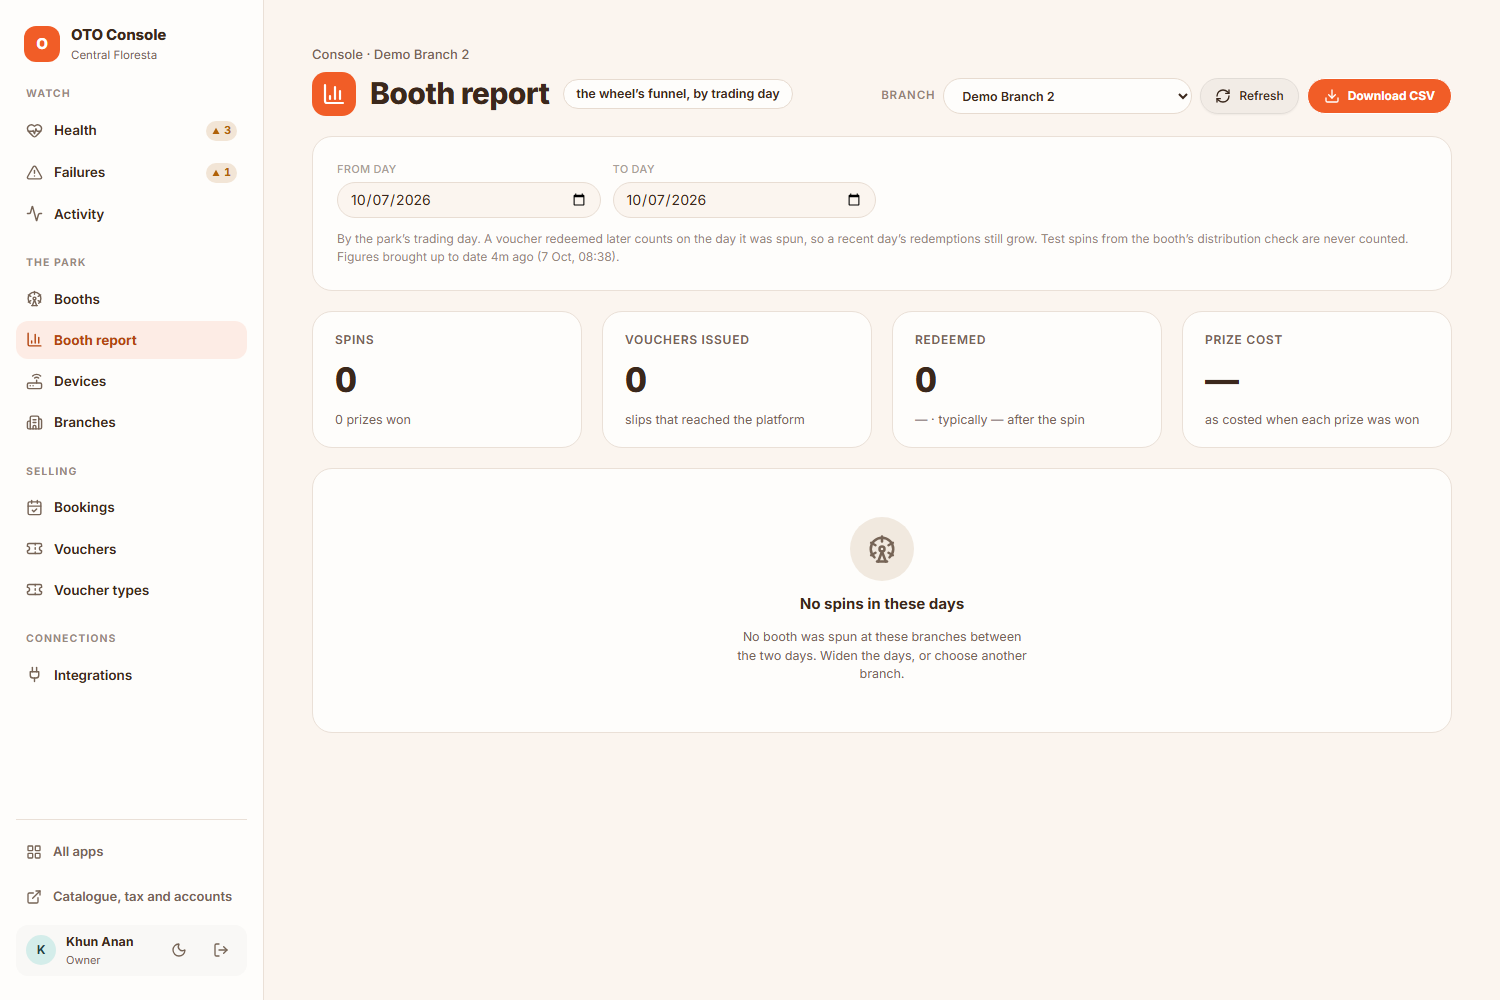
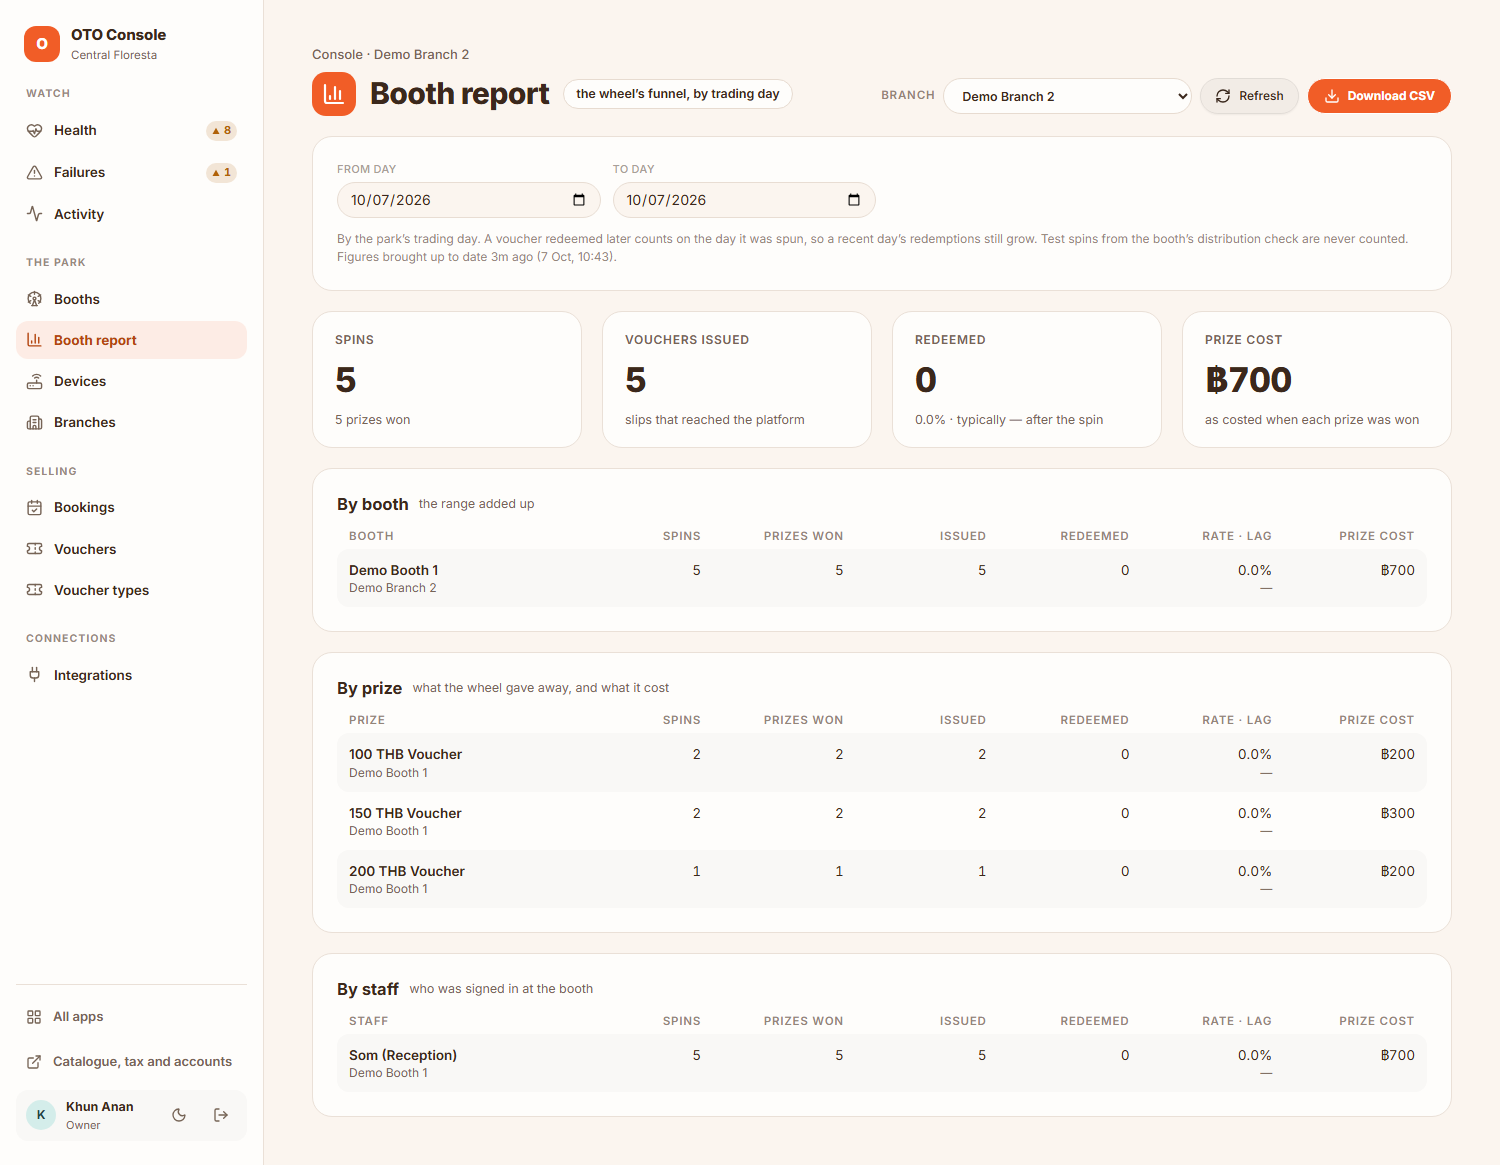
docs(qa): analytics walkthrough retakes after the demo-seed fix
- the tax list shows all ten receipts, the Discounts page counts the
  staff discount beside the masked voucher, and the booth report
  carries the demo booth's five spins with prize cost; the re-press
  result line proves convergence; two read-back cards added
- all frames passed a second independent image check

Refs: SCRUM-216

diff --git a/docs/qa/jira-comments/attachments/SCRUM-216/NOTES.md b/docs/qa/jira-comments/attachments/SCRUM-216/NOTES.md
@@ -123,3 +123,88 @@ audited (not checked in the audit log).
 - The Performance phone shot covers the top of the page only (the page scrolls
   inside itself).
 - Radar and the OTO App were not opened.
+
+## Retakes after the demo-seed fix (main db2e89ff)
+
+Captured 7 Oct 2026, about 10:41 to 10:50 Bangkok time (file times 10:43 to
+10:48), on the five platform staging services, which `render.mjs status` read
+back as live on `db2e89ff` (the OTO App service runs its own build, `547532f2`).
+Same driver as above: the seeded platform admin (Khun Anan, Owner), signed in
+from the repo seed; no secret printed or stored. Demo Branch 2 and demo data
+only. Nothing was created, so no "ZZ TEST" name was needed. FWBooth1, payment
+run 0d008153, the package "Native payment adult ticket 0d008153" and the OTO App
+check-ins were not selected or written; no branch's reporting source was
+switched. All report filters are as in the originals: Demo Branch 2, 10/07/2026
+to 10/07/2026. Nothing was committed and Jira was not touched.
+
+Order of events: (1) on Console > Health, "Add demo sales to Demo Branch 2
+(today)" pressed once; (2) "Run the analytics rollup now" pressed once and the
+page reloaded (the page said "The analytics rollup ran (daily ok, hourly ok,
+booth ok)." - read from page text, not in an image; the reloaded Analytics
+rollup card listed nine lines, each "last rolled up 7 Oct, 10:43 - trading day
+2026-10-07" - text read-back, not pictured); (3) the POS and Console shots below.
+
+| File | What the viewer literally sees | What was done to produce it |
+|---|---|---|
+| `SCRUM-216-staging-10-health-repress.png` (NEW) | Console Health, bottom of the page. At the top, a sliver of one line, "FortuneWheelBox (booth-1)" (read as the box line of the booth above Booth 2 in the list, which shot 1 names as FWBooth1; that inference is from the list order, the card itself is out of frame). Then the full cards for "Booth 2 (proof) (B2)", "Booth 3 (fixes) (B3)" and "FortuneWheelBooth (FW)", then the Test controls card with its button rows and, under the buttons, the result line "Demo day 2026-10-07 at Demo Branch 2: 0 sales added, 11 already present (1 manual discount row added to them); booth: 5 spins added, 0 already present. Existing records and closed-day totals were kept." The sidebar reads "Central Floresta" under OTO Console. The Booths list above the card is just part of the page; nothing in it was opened. | Pressed "Add demo sales to Demo Branch 2 (today)" once and photographed the page when the line appeared. The line says "0 sales added, 11 already present", so the 11 sales from the first press were kept and not duplicated; the new work was the manual discount row and the five booth spins. |
+| `SCRUM-216-staging-7-reports-tax-vat-receipts.png` (REPLACED, 1500x1128) | POS admin Tax & VAT, From 10/07/2026 To 10/07/2026, Branch Demo Branch 2. "VAT summary - ฿511.32 tax on ฿7,816.00 gross": Tickets net ฿7,428.66, incl. tax ฿485.99; Add-ons ฿387.34, incl. tax ฿25.33. "Bulk tax-receipt export (10 transactions)" with all ten rows visible, ticket/D2-000010 at the top to ticket/D2-000001 at the bottom, and the card's lower edge in view. Operator Som (Reception) on every row. Payment / Subtotal / Tax / Total per row: 000010 Promptpay 690.00 / 45.14 / 690.00; 000009 Card 450.00 / 29.44 / 450.00; 000008 Cash 450.00 / 22.90 / 350.00; 000007 Wallet Credit 80.00 / 5.23 / 80.00; 000006 Card 1,250.00 / 81.78 / 1,250.00; 000005 Split 1,896.00 / 117.49 / 1,796.00; 000004 Cash 450.00 / 29.44 / 450.00; 000003 Promptpay 1,380.00 / 90.28 / 1,380.00; 000002 Card 470.00 / 30.74 / 470.00; 000001 Cash 900.00 / 58.88 / 900.00. | Window made 1500x2600 so nothing clips, opened `/admin?panel=reports-tax`, set the three filters, cropped the picture to the bottom of the page content. One frame was enough, so no -7a / -7b. In the same page the DOM held ten receipt rows and the heading said 10 (page text, same session). |
+| `SCRUM-216-staging-6-reports-discounts-voucher-masked.png` (REPLACED, 1500x1198) | POS admin Discounts & Comps, same filters. Tiles: Total comps ฿0.00, Manual discounts ฿100.00, Promo codes ฿100.00, Free-item benefit ฿0.00, Total impact ฿200.00. "Promo impact by type": Fixed, 1, ฿100.00. "By operator": Som (Reception), Comps 0, Comp ฿0.00, Discounts 1, Discount ฿100.00. "Promo code impact (1)": D2-000008, 10/7/2026 1:55:00 PM, code shown as "...F608" with "100 THB Voucher" under it, Fixed, ฿100.00 (masked: last four characters only). "Transactions (1)": sale/D2-000005, 10/7/2026 12:50:00 PM, type Fixed, reason Loyalty, applied by Som (Reception), ฿100.00. | Opened `/admin?panel=reports-discounts`, set the filters, cropped to the page content. All four cards sit in one frame. |
+| `SCRUM-216-staging-6b-manual-csv-first-lines.png` (NEW) | READ-BACK card (labelled "not a screen itself") of the downloaded file `discount-comp-transactions_2026-10-07_2026-10-07.csv` (159 bytes, 2 lines): header `Source,Transaction,At,Operator,Type,Reason,Note,Amount,Applied by` and the row `sale,D2-000005,2026-10-07T05:50:00.000Z,Som (Reception),fixed,Loyalty,,100.00,Som (Reception)`. | Pressed "Export CSV" on the Transactions card, saved the browser download in the scratchpad, printed its first lines onto a card. This is the manual-discount file (the Transactions card); the earlier `-6-discounts-csv-first-lines.png` is the Promo code impact file and is unchanged. |
+| `SCRUM-216-staging-8-console-booth-report-demo-branch.png` (REPLACED, 1500x1165) | Console Booth report, "Console - Demo Branch 2", Branch Demo Branch 2, From day 10/07/2026, To day 10/07/2026, "Figures brought up to date 3m ago (7 Oct, 10:43)". Tiles: Spins 5 ("5 prizes won"), Vouchers issued 5 ("slips that reached the platform"), Redeemed 0 ("0.0% - typically - after the spin"), Prize cost ฿700 ("as costed when each prize was won"). By booth: Demo Booth 1 / Demo Branch 2, 5 spins, 5 prizes won, 5 issued, 0 redeemed, 0.0%, ฿700. By prize: 100 THB Voucher 2 spins / 2 won / 2 issued / 0 redeemed / ฿200; 150 THB Voucher 2 / 2 / 2 / 0 / ฿300; 200 THB Voucher 1 / 1 / 1 / 0 / ฿200. By staff: Som (Reception), Demo Booth 1, 5 / 5 / 5 / 0 / ฿700. | Opened Booth report, chose Demo Branch 2 and 7 Oct for both days, pressed Refresh, enlarged the window to the page height so all three tables show. The booth on screen is "Demo Booth 1" at Demo Branch 2, not FWBooth1; the screen shows no other booth. |
+| `SCRUM-216-staging-8-booth-csv-first-lines.png` (REPLACED) | READ-BACK card of `booth-report_2026-10-07_2026-10-07.csv` (528 bytes, 4 lines): the header row (Trading day, Branch, Booth, Staff, Prize, Spins, Prizes won, Vouchers issued, Vouchers redeemed, Redemption rate (%), Mean redemption lag (minutes), Prize cost (THB)) and three data rows, each starting "2026-10-07","Demo Branch 2","Demo Booth 1","Som (Reception)", then: "100 THB Voucher","2","2","2","0","0.0","","200.00"; "150 THB Voucher","2","2","2","0","0.0","","300.00"; "200 THB Voucher","1","1","1","0","0.0","","200.00". | Pressed "Download CSV", saved the download, printed its first lines onto a card. The rows match the By prize table on the Booth report screen. |
+| `SCRUM-216-staging-11-performance-demo-branch-today-after-repress.png` (NEW, comparison) | POS Today > Performance, header "Demo Branch 2", Branch Demo Branch 2, Date 10/07/2026, "Provisional - still being added up - Updated 10:43". Revenue ฿7,716, 10 transactions; Guests checked in 28, 14 kids - 14 adults; Parties today 0; Drop-off kids in park 0; Tickets ฿7,716 100%, F&B / Merch / Parties / Drop-off ฿0; the Ticket mix card is cut off at the bottom edge (the counts are only partly in view). | Taken after the retakes so the Tax and Performance screens can be compared at the same hour (see R2). Top of the page only, 1500x1000. The Performance figures did not move after the press and rollup (still ฿7,716 / 10 / 28, as in shot 2). |
+| `SCRUM-216-staging-12-readback-summary-after-repress.png` (NEW) | READ-BACK card (labelled "not a screen") of `GET /analytics/summary` for Demo Branch 2, 2026-10-07, group=day, selected fields: status 200, branch "Demo Branch 2", businessDate "2026-10-07", provisional true, computedAt "2026-10-07T01:21:17.912Z", revenueSatang 771600, refundsSatang 10000, discountsSatang 20000, compsSatang 0, vatSatang 51132, txnCount 10. The card's own line says "after the demo press and rollup", which says when it was read; its computedAt is 08:21 Bangkok, earlier than the 10:43 press (see R3), so the row was not recomputed by the press. The figures agree with the screens: 771600 = ฿7,716 (Performance), vatSatang 51132 = ฿511.32 (Tax & VAT), discountsSatang 20000 = ฿200 (Discounts total impact), txnCount 10. | Read through the admin's Console session with the page's own fetch; the fields were chosen by the script, not the whole answer. |
+
+## What the retakes show about the earlier problems (read from the new pixels)
+
+- Earlier problem 2 (Discounts & Comps showed Manual discounts ฿0.00): the
+  screen now shows Manual discounts ฿100.00, a By operator row, one Transactions
+  row (sale/D2-000005, Loyalty, ฿100.00), and the masked voucher row still
+  present. Total impact ฿200.00 equals the summary row's discountsSatang 20000
+  in the read-back card (-12), and the tax list still shows D2-000005 at
+  subtotal ฿1,896.00 against total ฿1,796.00.
+- Earlier problem 3 (booth report empty at Demo Branch 2): now 5 spins, 5 prizes
+  won, 5 vouchers issued, 0 redeemed, ฿700 prize cost, with a breakdown by
+  booth, prize and staff, and a CSV with three data rows.
+- Earlier problem 4 (sales timed later than the staging clock): unchanged. The
+  Tax list still shows D2-000010 at 3:00:00 PM while the pages read 10:43.
+- Earlier problem 1 (no closed demo day): unchanged, not retaken.
+
+## New observations (photographed or read, not fixed)
+
+R1. Booth "Redeemed" is 0 at Demo Branch 2 while the Discounts screen counts
+    one "100 THB Voucher" code (...F608) applied on D2-000008. The two screens
+    count different things: the booth report counts slips the booth issued and
+    that were later redeemed; the Discounts screen counts a promo code applied
+    on a sale. Nothing on either screen says that code came from Demo Booth 1,
+    so no claim is made that it should show as a booth redemption. If the demo
+    day is meant to show a redeemed booth voucher, the two are not linked.
+    Photographed: -8-console-booth-report (Redeemed 0) and
+    -6-reports-discounts (promo code row D2-000008).
+R2. The ฿100 gap between Performance (฿7,716, 10 transactions, -11) and Sales /
+    Tax & VAT (฿7,816.00 gross, 10 transactions, -7) is still there. The -12
+    read-back shows refundsSatang 10000 in the same summary row as
+    revenueSatang 771600. The subtraction (7,816 - 100 = 7,716) is arithmetic
+    done here, not something either screen states. Carried from earlier
+    observation 5.
+R3. The summary row's computedAt (08:21 Bangkok, `2026-10-07T01:21:17.912Z`) is
+    earlier than the Performance line's "Updated 10:43". The code comment in
+    `analytics-summary.ts` says a row's computed_at moves only when its figures
+    moved, and the line takes the newest computed_at across the day's rows, so
+    10:43 is read as the newest of several tables. That is from the code, not
+    from a screen. The figures themselves agree (7,716 / 10 on Performance,
+    771600 / 10 in the row).
+R4. Console > Vouchers was opened once, read-only, to look for the five booth
+    vouchers behind the Booth report. Its default listing showed three vouchers
+    from FWBooth1 (the screen follows the Console's own park, Central Floresta,
+    per its sidebar; this is an inference) and none from Demo Booth 1; its booth
+    filter did not list Demo Booth 1. Nothing on that page was selected,
+    changed or photographed, and FWBooth1 was not interacted with. No claim is
+    made about whether the Vouchers page should list Demo Branch 2's slips.
+
+## Still on staging after the retakes
+
+Same as above, plus: the 7 Oct demo day at Demo Branch 2 now has one manual
+discount row (D2-000005's Loyalty ฿100) and five labelled booth spins at Demo
+Booth 1. The admin sessions from the scripts were not signed out. Demo Branch
+2's reporting source stayed oto_pos.
